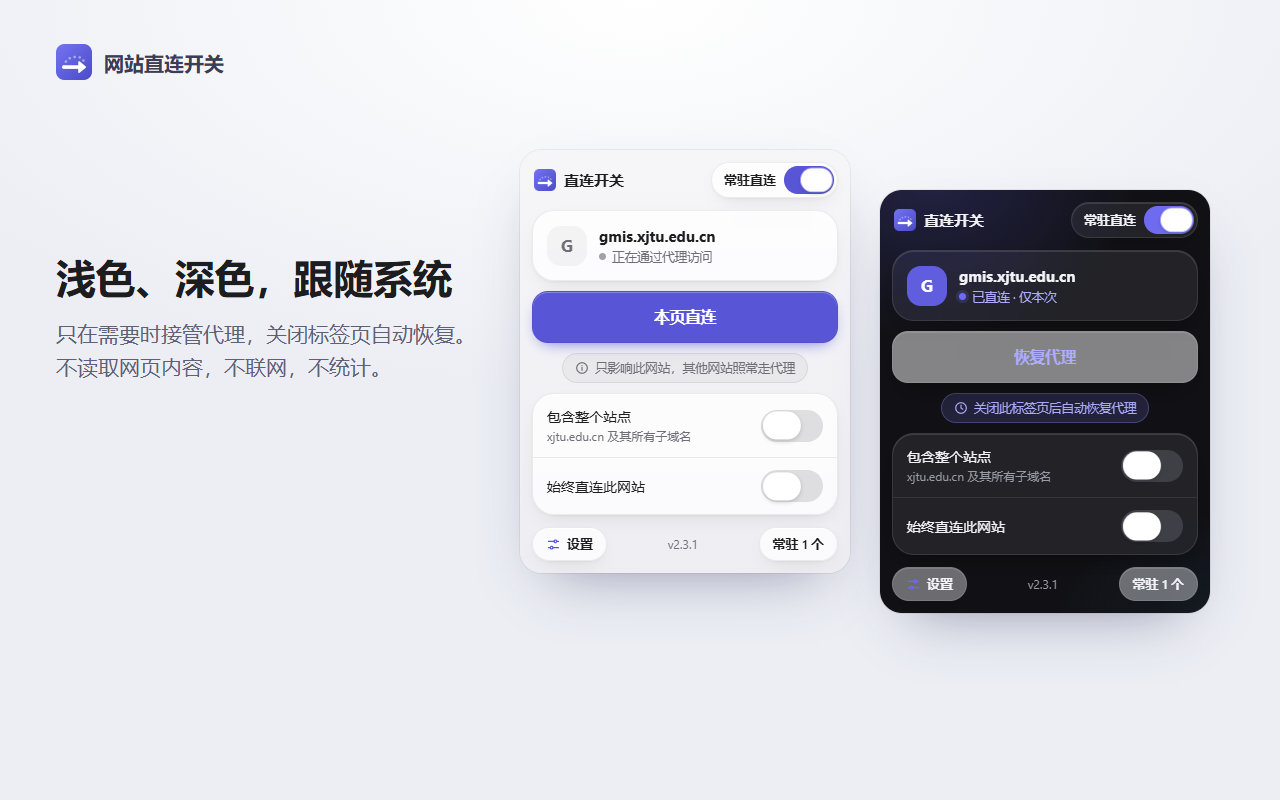
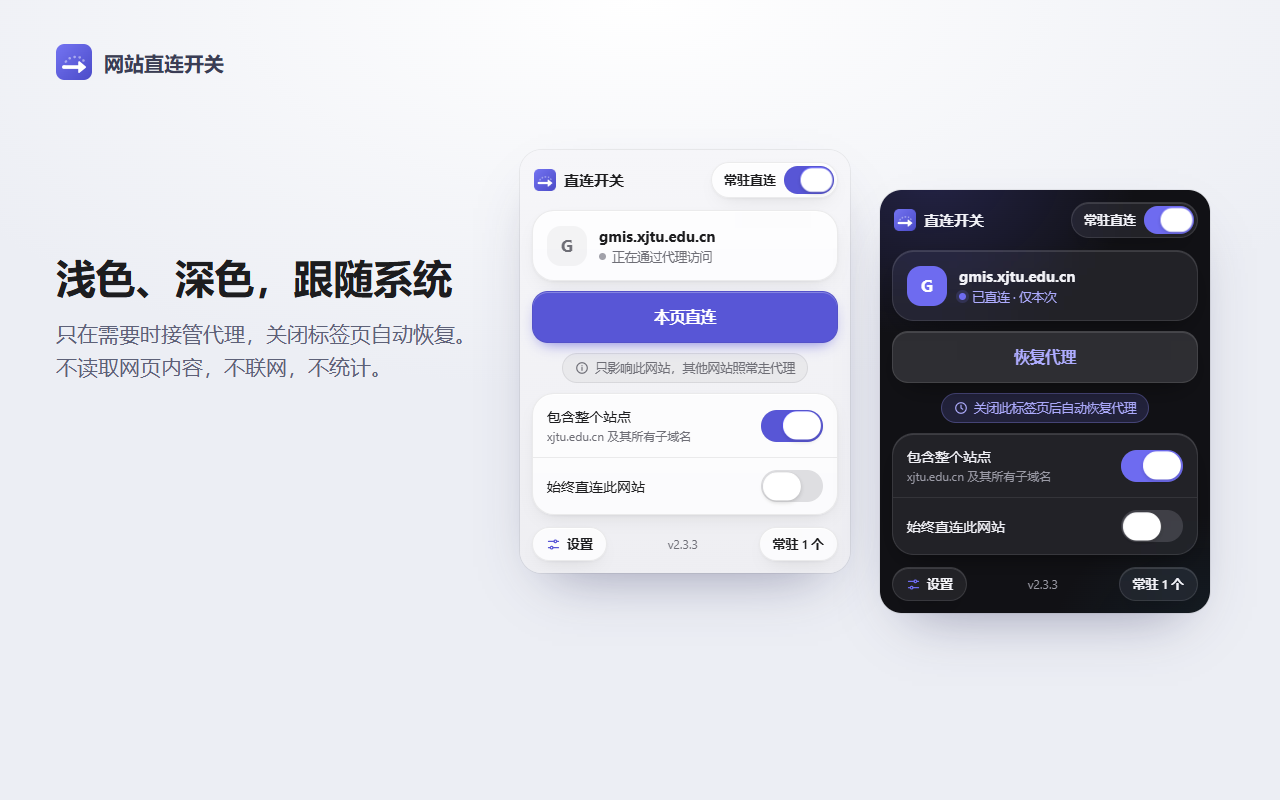
2.3.3: "Whole site" on by default for one-time direct
Real-site check: gmis.xjtu.edu.cn redirects to org.xjtu.edu.cn and
login.xjtu.edu.cn. With the popup's single-host default, "Connect directly"
made gmis DIRECT but left those hosts on the proxy, so the page still failed
while the user's saved whole-site rule worked. The popup now defaults to the
whole site and remembers the last choice.

The browser test maps *.xjtu.edu.cn locally and asserts that a sibling
subdomain is DIRECT after "Connect directly" (fails without this change).

diff --git a/README.en.md b/README.en.md
@@ -29,12 +29,12 @@ Works in **Microsoft Edge** and **Google Chrome** with the same package. Not yet
 
 ## Use
 
-| Control                                | What it does                                                                                   |
-| -------------------------------------- | ---------------------------------------------------------------------------------------------- |
-| **Connect directly / Use proxy again** | Switches the current site and reloads it. Ends when you close this tab or restart the browser. |
-| **Whole site: \*.example.edu**         | Also includes the site's other subdomains (logins, assets).                                    |
-| **Always connect directly**            | Adds the site to the **Saved sites** list.                                                     |
-| **Saved sites** (top right)            | Master switch for the list. When off, the list is kept but ignored.                            |
+| Control                                | What it does                                                                                                                                                                                |
+| -------------------------------------- | ------------------------------------------------------------------------------------------------------------------------------------------------------------------------------------------- |
+| **Connect directly / Use proxy again** | Switches the current site and reloads it. Ends when you close this tab or restart the browser.                                                                                              |
+| **Whole site**                         | **On by default**: also includes the site's other subdomains, since portals often redirect, e.g. `gmis.` → `login.`. Turn it off to cover only the current host; your choice is remembered. |
+| **Always connect directly**            | Adds the site to the **Saved sites** list.                                                                                                                                                  |
+| **Saved sites** (top right)            | Master switch for the list. When off, the list is kept but ignored.                                                                                                                         |
 
 Switches can be tapped or dragged; only the switch itself reacts, not its label. The UI follows the browser's language (English and Simplified Chinese).
 

diff --git a/README.md b/README.md
@@ -41,12 +41,12 @@ Edge 和 Chrome 用**同一个安装包**。尚未上架扩展商店，需要手
 
 在打不开的网站上点击扩展图标：
 
-| 控件                       | 作用                                                                     |
-| -------------------------- | ------------------------------------------------------------------------ |
-| **本页直连 / 恢复代理**    | 当前网站改为直连并自动刷新。关闭这个标签页或重启浏览器后自动恢复代理。   |
-| **包含整个站点**           | 连同同一站点的其他子域名一起直连，适合登录页、资源在别的子域名上的网站。 |
-| **始终直连此网站**         | 把网站加入「常驻直连」列表，以后打开就是直连。                           |
-| **常驻直连**（右上角开关） | 整个常驻列表的总开关。关闭后列表保留但不生效，只能单次直连。             |
+| 控件                       | 作用                                                                                                                                  |
+| -------------------------- | ------------------------------------------------------------------------------------------------------------------------------------- |
+| **本页直连 / 恢复代理**    | 当前网站改为直连并自动刷新。关闭这个标签页或重启浏览器后自动恢复代理。                                                                |
+| **包含整个站点**           | **默认开启**，连同同一站点的其他子域名一起直连（很多系统会从 `gmis.` 跳到 `login.` 等子域名）。关闭则只直连当前域名，会记住你的选择。 |
+| **始终直连此网站**         | 把网站加入「常驻直连」列表，以后打开就是直连。                                                                                        |
+| **常驻直连**（右上角开关） | 整个常驻列表的总开关。关闭后列表保留但不生效，只能单次直连。                                                                          |
 
 开关可以点，也可以拖动；只有开关本身可操作，点文字不会误触。
 

diff --git a/CHANGELOG.md b/CHANGELOG.md
@@ -1,5 +1,9 @@
 # Changelog
 
+## 2.3.3 — 2026-10-26
+
+- **"Whole site" is now on by default in the popup**, and the last choice is remembered. Tested on real portals: `gmis.xjtu.edu.cn` redirects to `org.xjtu.edu.cn` and `login.xjtu.edu.cn`, so a single-host "Connect directly" left those on the proxy and the page still failed. The browser test now checks that a sibling subdomain is direct.
+
 ## 2.3.2 — 2026-10-26
 
 - Drop the optional `short_name` from the manifest: "Direct Switch" exceeds the 12-character limit flagged by the Edge Add-ons validator. The full name is used instead; the popup header is unchanged.
